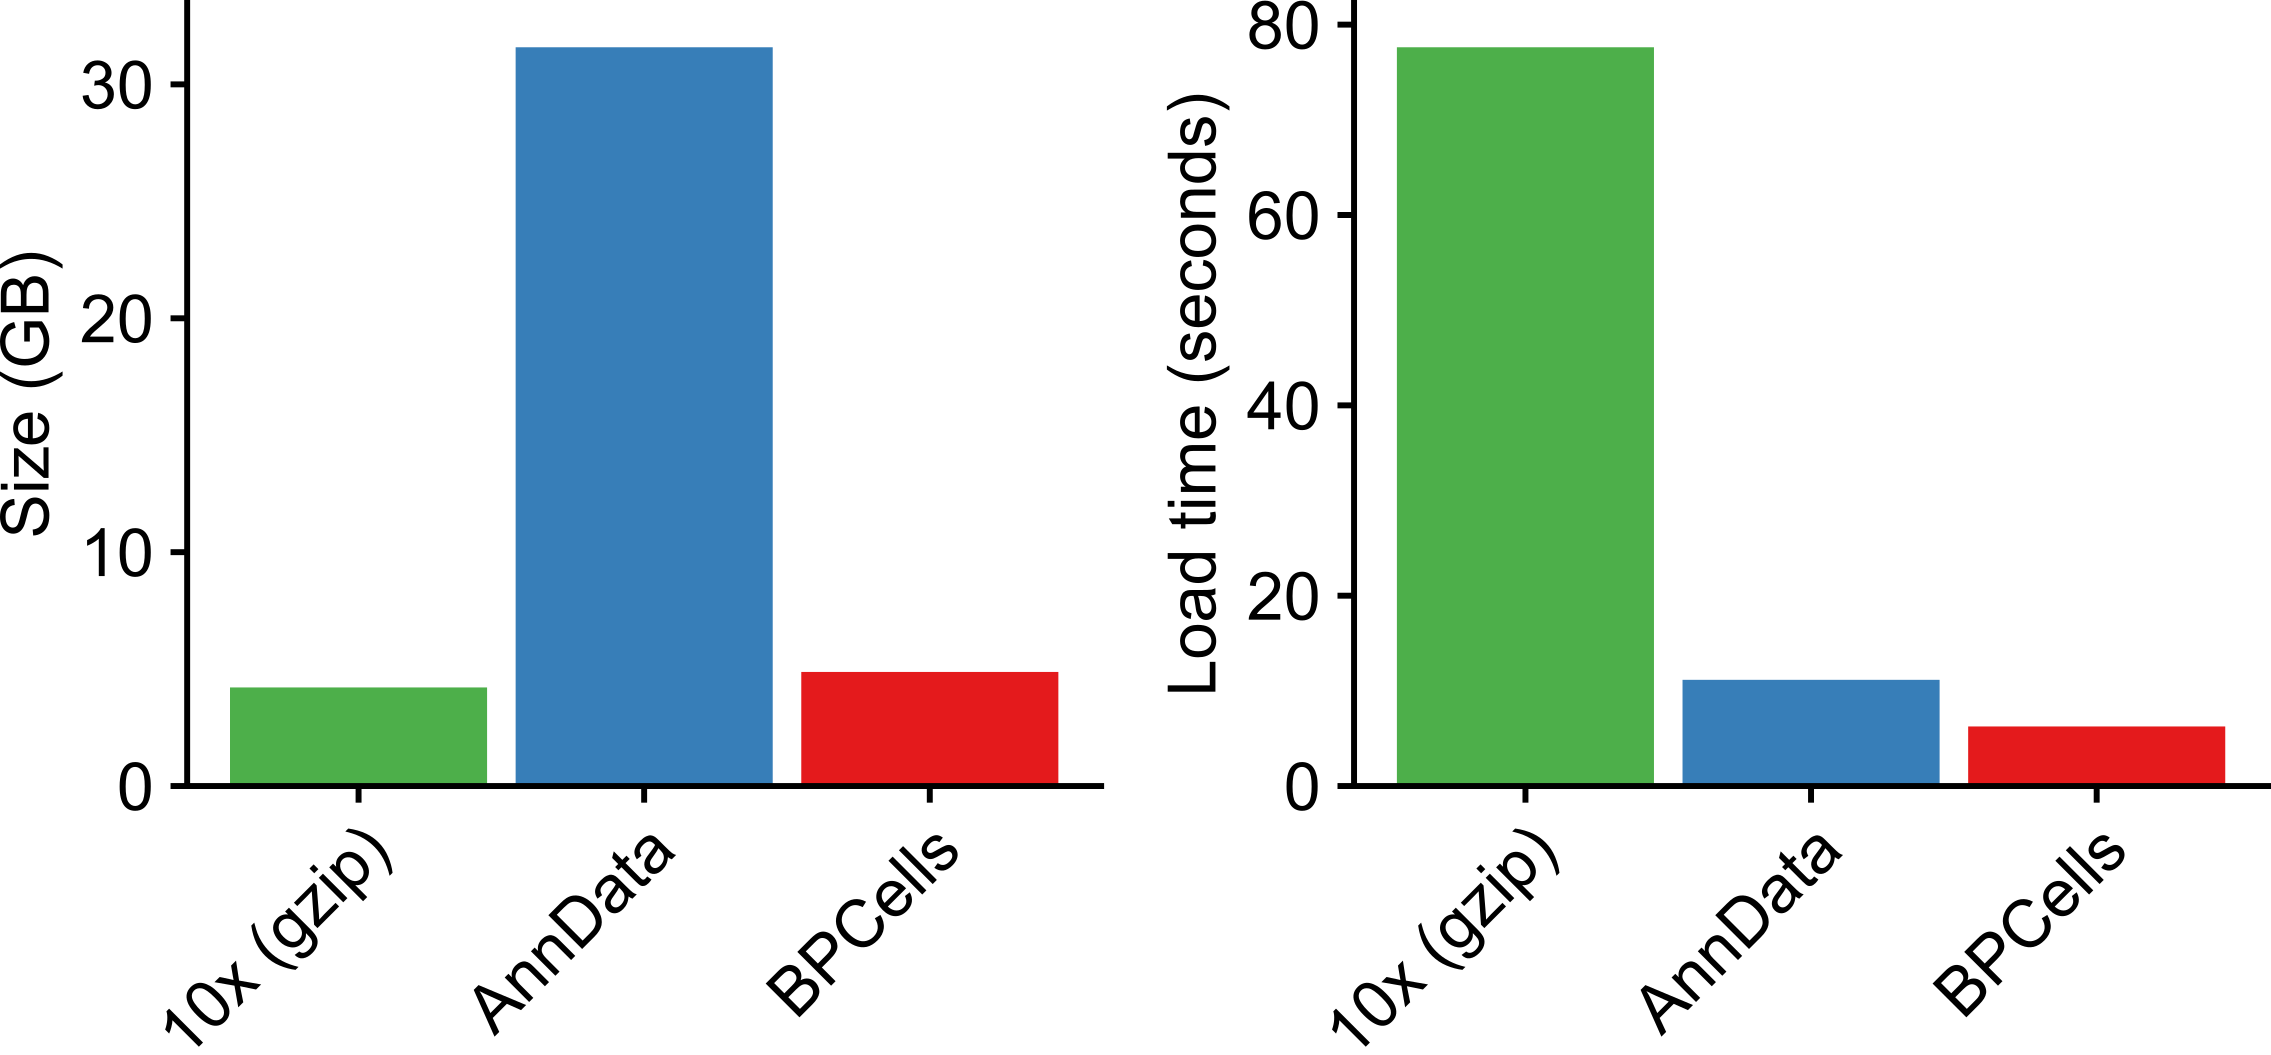
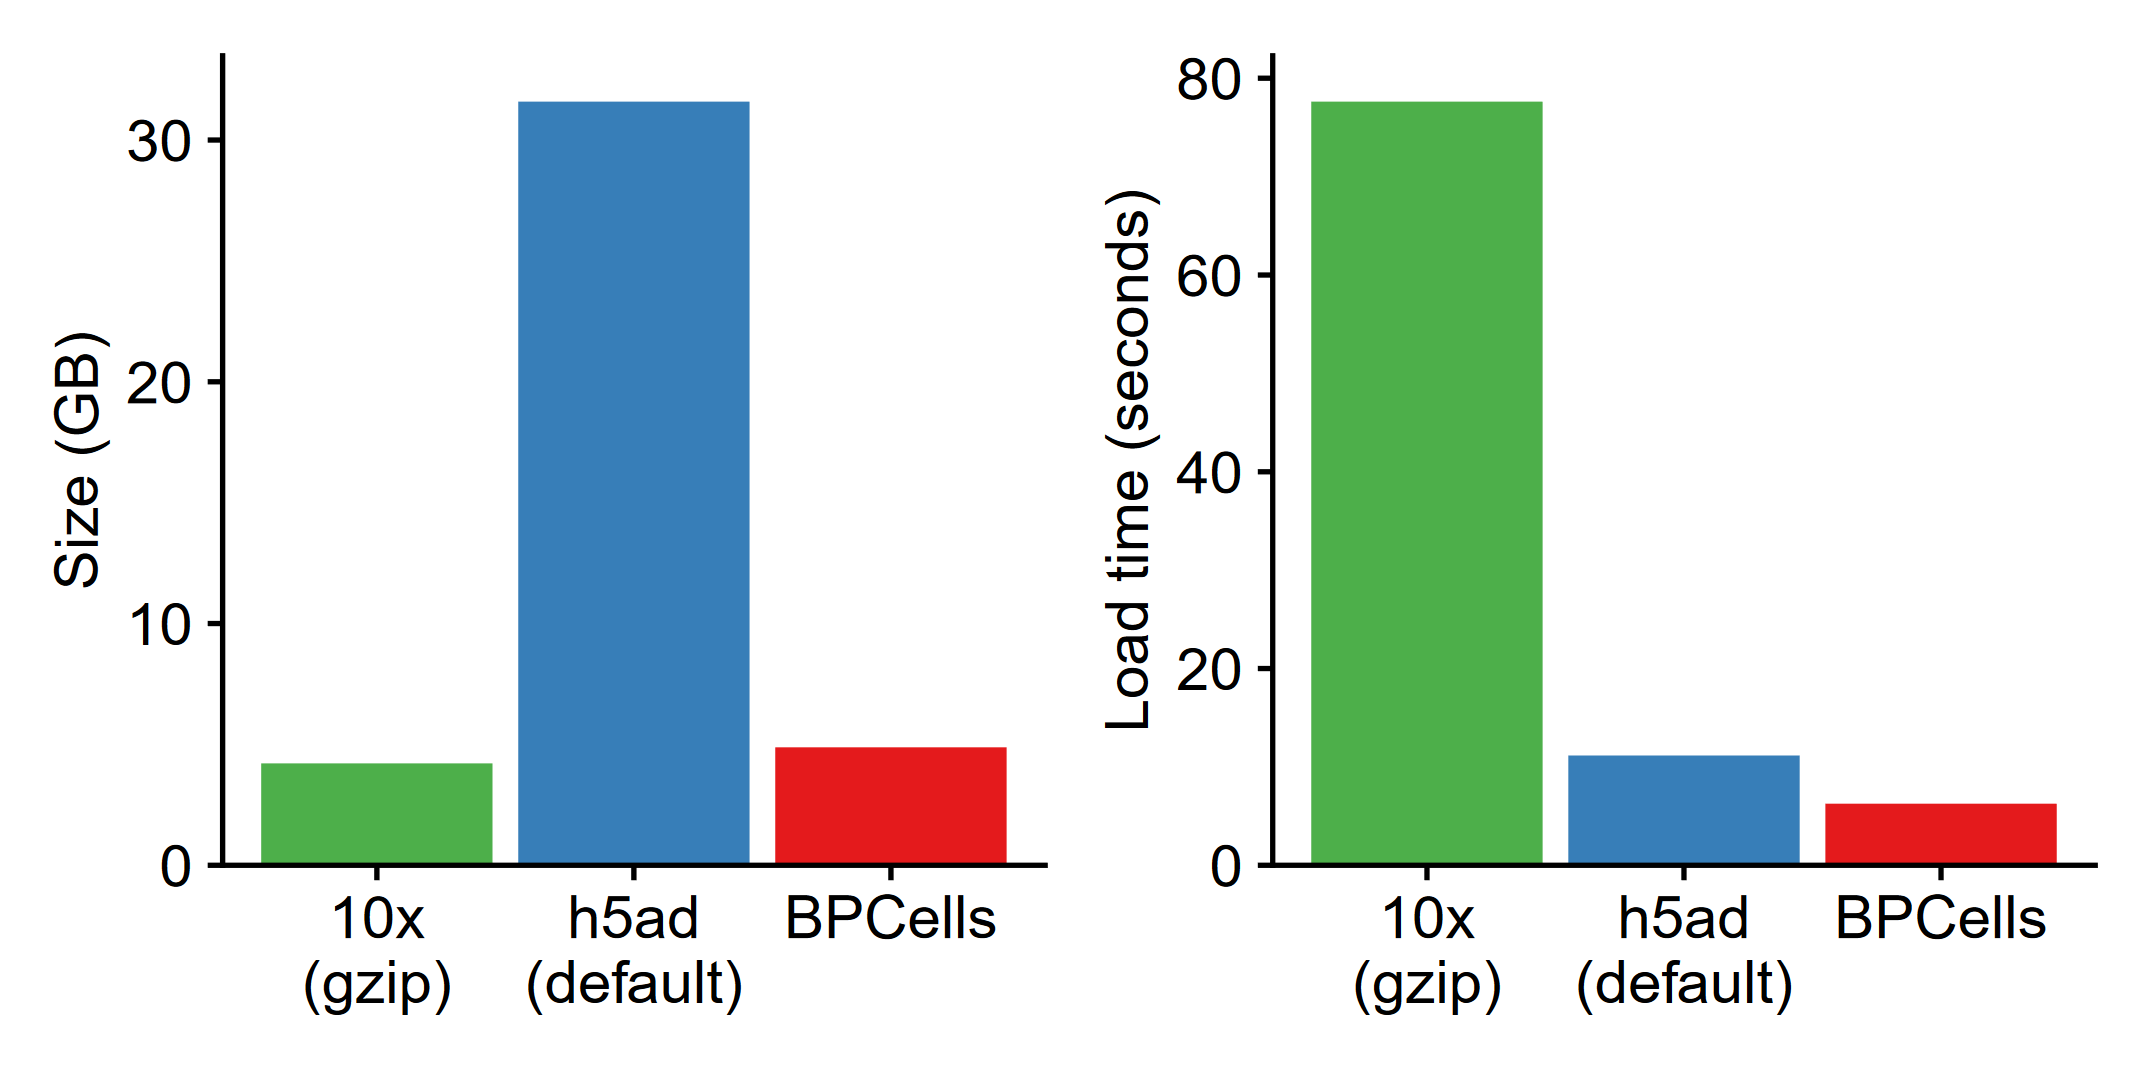
Clarify AnnData comparison in benchmarks vignette

Changed region(s): [[0.0, 0.0, 0.4995, 1.0], [0.4995, 0.0, 1.0, 0.9706]]

diff --git a/docs/articles/web-only/benchmarks.html b/docs/articles/web-only/benchmarks.html
@@ -127,12 +127,14 @@ traditional formats like AnnData or 10x hdf5 feature matrices, there is
 an inherent tradeoff between storage size and speed of loading.
 Gzip-compressed files are small, but slow to read.</p>
 <p>BPCells uses bitpacking compression to provide 4-6x smaller storage
-for counts matrices compared to an uncompressed binary format like
-AnnData. A single thread can load the matrix data faster than reading
-uncompressed data in many cases, due to the smaller data size and
-extremely fast decompression<a class="footnote-ref" tabindex="0" data-bs-toggle="popover" data-bs-content="&lt;p&gt;This holds true for file storage that loads at under
+for counts matrices compared to an uncompressed binary format
+(e.g. AnnData’s default h5ad settings<a class="footnote-ref" tabindex="0" data-bs-toggle="popover" data-bs-content="&lt;p&gt;Note that AnnData supports a wide variety compression
+algorithms, though for counts matrices BPCells bitpacking is also faster
+than lz4 and zstd read/write.&lt;/p&gt;"><sup>2</sup></a>). A single thread can load the matrix data
+faster than reading uncompressed data in many cases, due to the smaller
+data size and extremely fast decompression<a class="footnote-ref" tabindex="0" data-bs-toggle="popover" data-bs-content="&lt;p&gt;This holds true for file storage that loads at under
 ~2GB/s, which is ~8x faster than a hard drive, and 16x faster than a
-gigabit ethernet connection.&lt;/p&gt;"><sup>2</sup></a>.</p>
+gigabit ethernet connection.&lt;/p&gt;"><sup>3</sup></a>.</p>
 <p>Benchmark storing + loading a 1.3M cell RNA-seq experiment from 10x
 Genomics. <img src="benchmark-plots/compression-1M-example.png"></p>
 </div>
